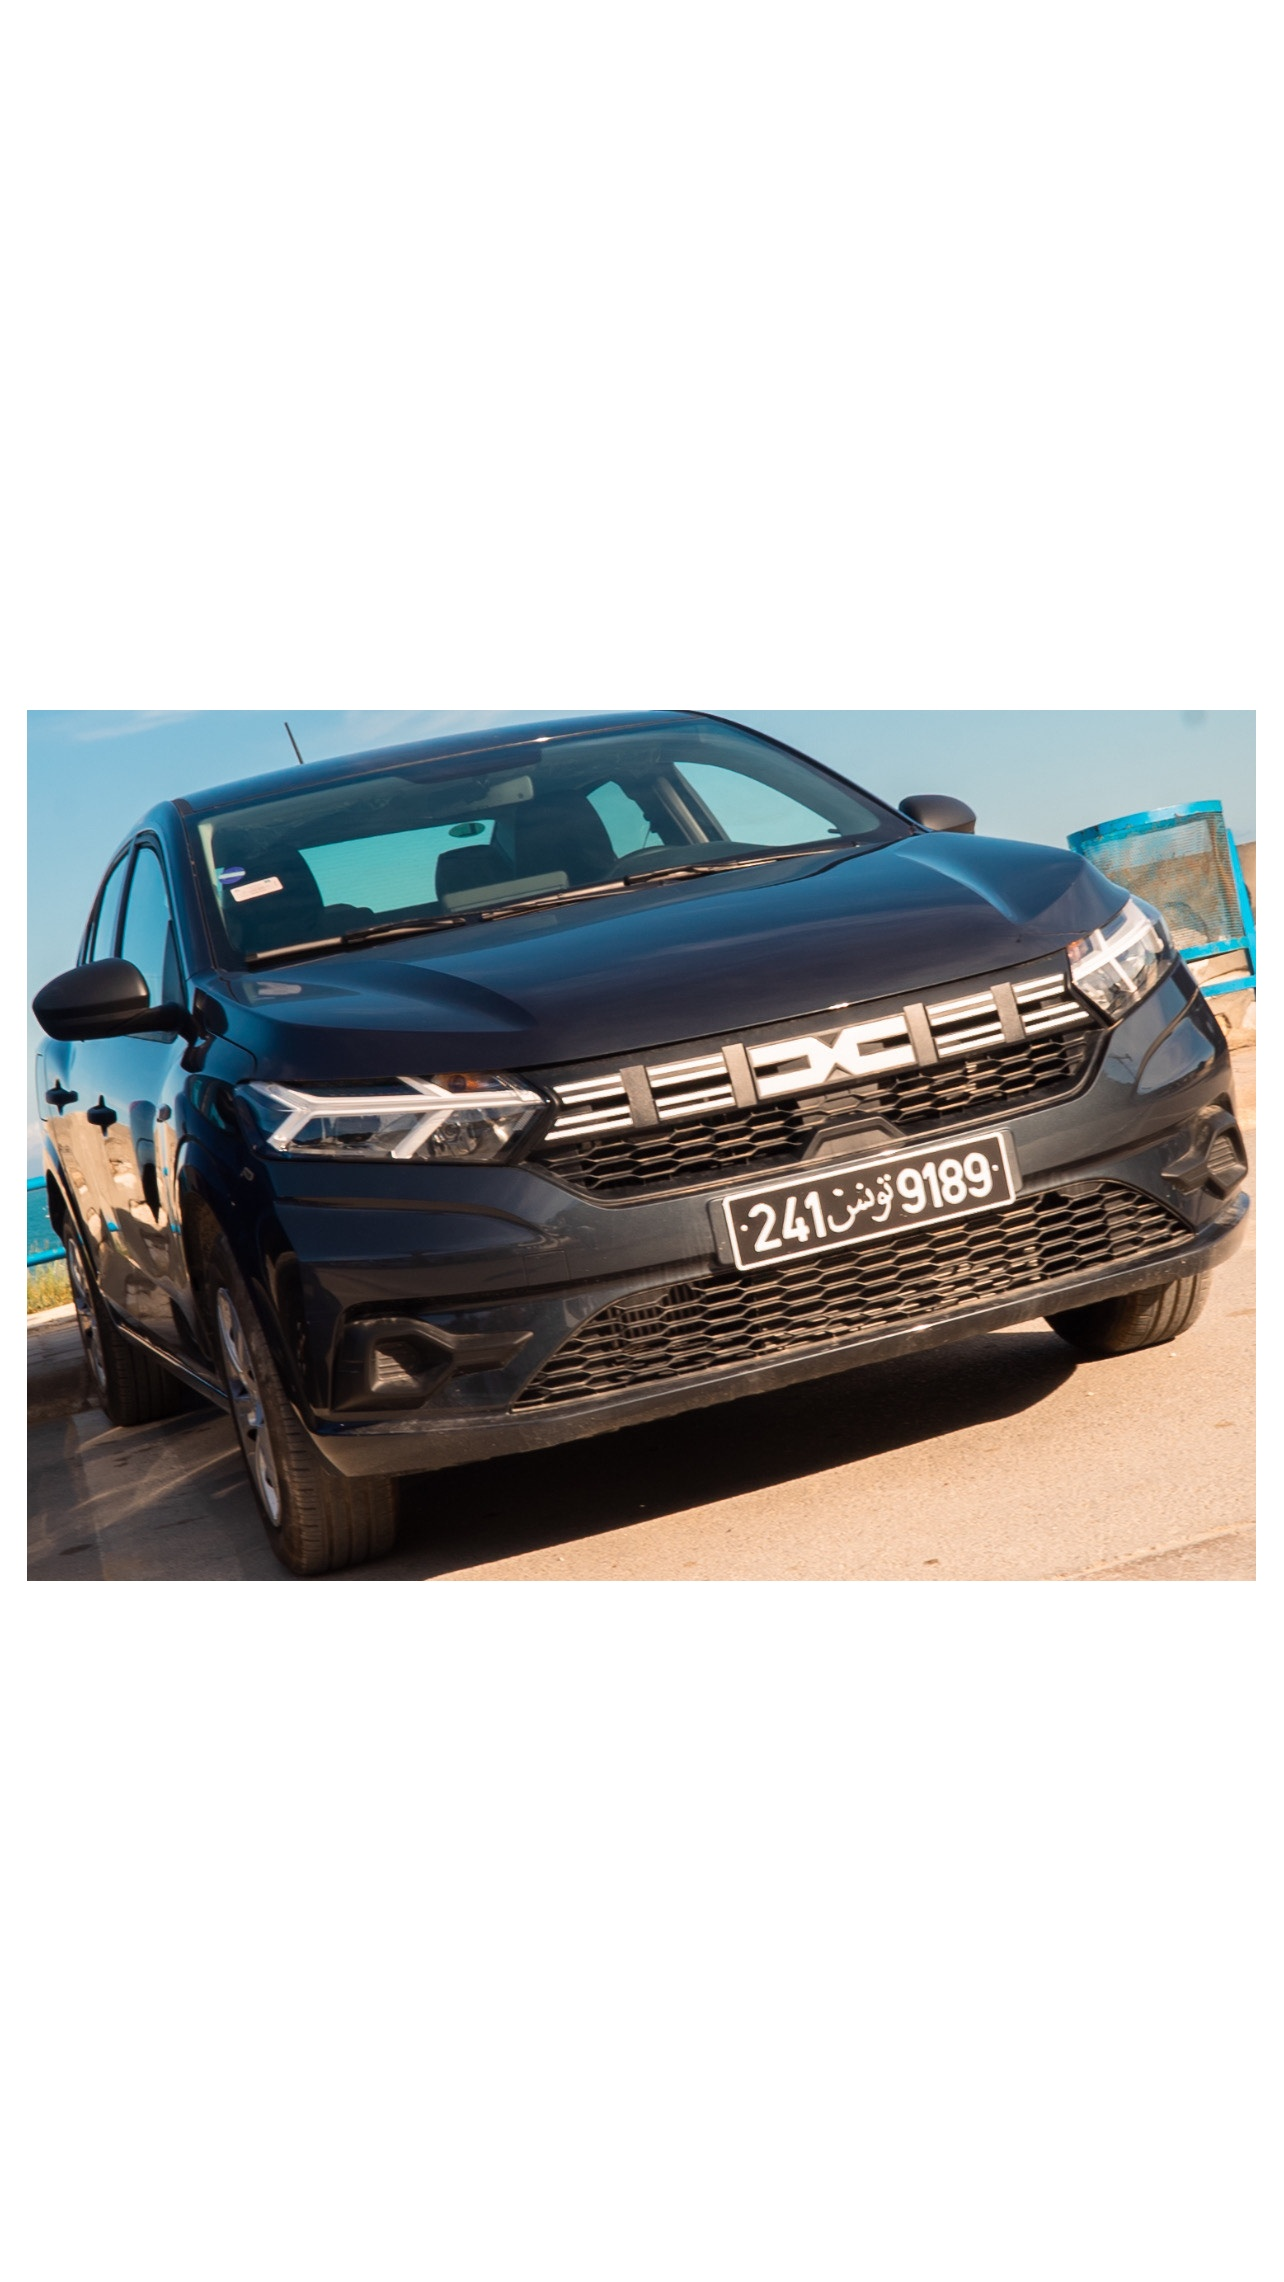
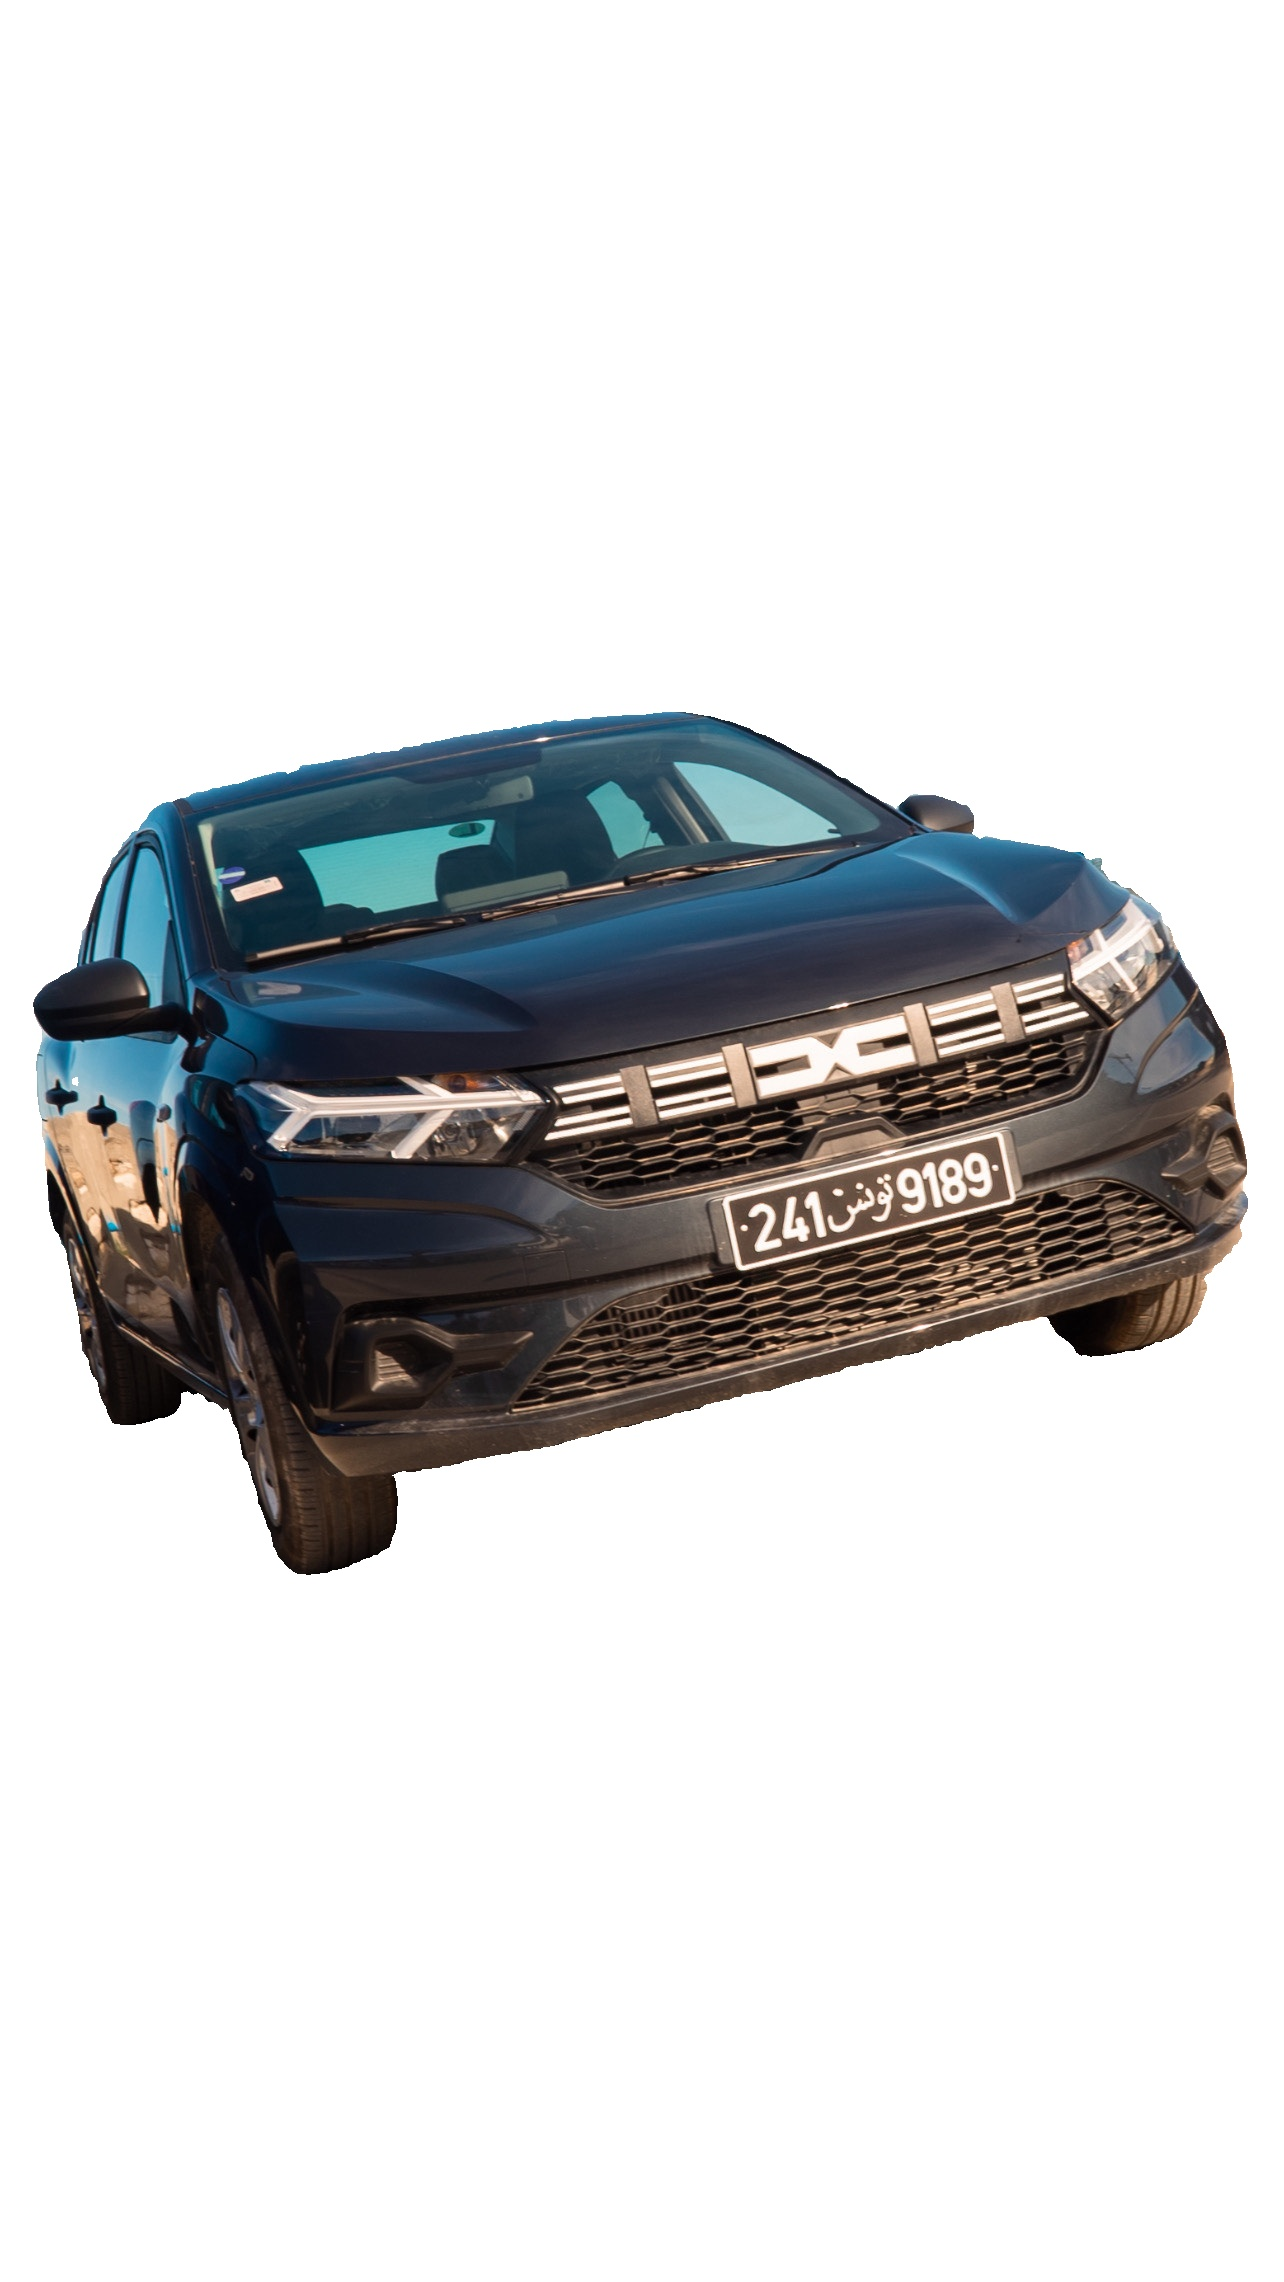
first commit

Changed region(s): [[0.0, 0.3111, 0.9969, 0.7156]]

diff --git a/projects/car_preprocessing/src/dataset_builder/mask_generator.py b/projects/car_preprocessing/src/dataset_builder/mask_generator.py
@@ -1,6 +1,7 @@
 from sam2.sam2_image_predictor import SAM2ImagePredictor
 import torch
 import numpy as np
+import cv2
 
 class MaskGenerator:
     def __init__(self):
@@ -33,18 +34,13 @@ class MaskGenerator:
             self.predictor.set_image(image_rgb)
 
             # Format SAM2 pour une bounding box
-            prompts = {
-                "boxes": [[[
-                    float(bbox[0]),
-                    float(bbox[1]),
-                    float(bbox[2]),
-                    float(bbox[3])
-                ]]]
-            }
+            # Format SAM2 pour une bounding box
+            # SAM expects box as np.array([x1, y1, x2, y2])
+            box = np.array(bbox)
 
             with torch.no_grad():
                 masks, _, _ = self.predictor.predict(
-                    input_prompts=prompts,
+                    box=box,
                     multimask_output=False
                 )
 
@@ -52,9 +48,43 @@ class MaskGenerator:
             return mask
 
         except Exception as e:
-            print("[MaskGenerator] ERREUR SAM2 → fallback rectangle.")
-            print(e)
+            print(f"[MaskGenerator] ERREUR SAM2: {e}")
+            
+            # Fallback : Tentative avec rembg
+            try:
+                print("[MaskGenerator] Tentative de détourage avec rembg...")
+                from rembg import remove
+                from PIL import Image
+                
+                # Convertir numpy array en PIL Image
+                img_pil = Image.fromarray(image_rgb)
+                
+                # Détourage
+                output = remove(img_pil)
+                
+                # Récupérer le canal Alpha comme masque
+                mask = np.array(output)[:, :, 3]
+                
+                # Binariser le masque (0 ou 255)
+                _, mask = cv2.threshold(mask, 127, 255, cv2.THRESH_BINARY)
+                
+                print("[MaskGenerator] Détourage rembg réussi.")
+                return mask
+                
+            except ImportError:
+                print("[MaskGenerator] 'rembg' n'est pas installé. Installez-le avec 'pip install rembg'.")
+            except Exception as e_rembg:
+                print(f"[MaskGenerator] Erreur rembg: {e_rembg}")
+
+            # Fallback ultime : Rectangle de la BBox
+            print("[MaskGenerator] Fallback : Rectangle simple.")
             mask = np.zeros((h, w), dtype=np.uint8)
             x1, y1, x2, y2 = map(int, bbox)
+            # Clip coordinates to image dimensions
+            x1 = max(0, x1)
+            y1 = max(0, y1)
+            x2 = min(w, x2)
+            y2 = min(h, y2)
+            
             mask[y1:y2, x1:x2] = 255
             return mask
